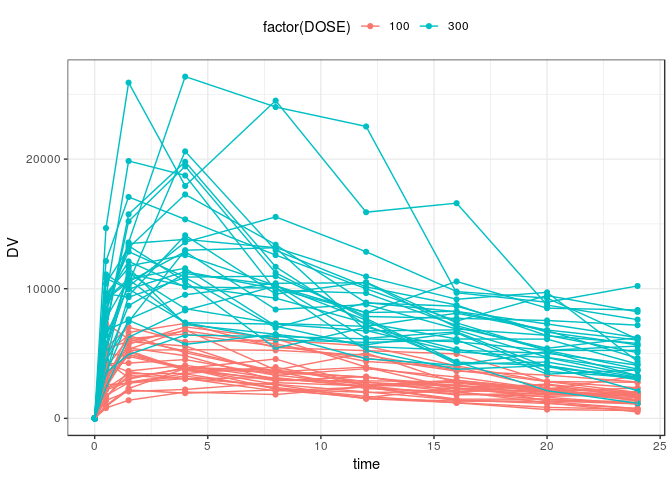
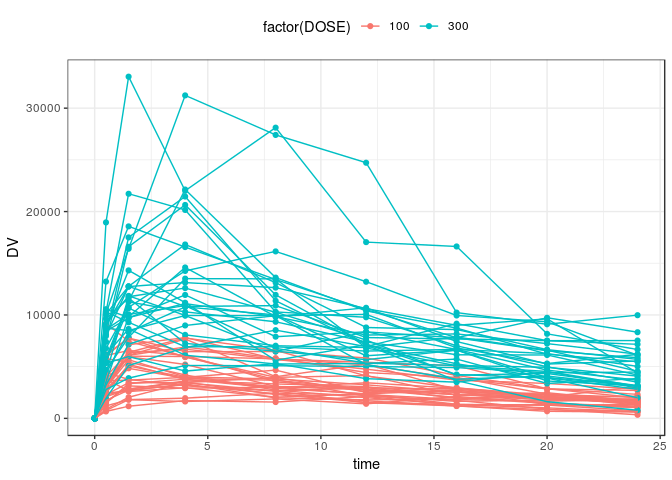
rebuild

diff --git a/nmtest5.md b/nmtest5.md
@@ -108,7 +108,7 @@ $THETA
 
 $OMEGA
 0.09 
-0.1 
+0.2 
 0.5
 
 $SIGMA 
@@ -157,10 +157,10 @@ head(out)
     .   <dbl> <dbl> <dbl> <dbl> <dbl> <dbl> <dbl> <dbl>
     . 1     1   0       0     0     0  82.3   100    0 
     . 2     1   0       1   100     1  82.3   100    0 
-    . 3     1   0.5     0     0     0  82.3   100 7356.
-    . 4     1   1.5     0     0     0  82.3   100 6101.
-    . 5     1   4       0     0     0  82.3   100 5203.
-    . 6     1   8       0     0     0  82.3   100 3616.
+    . 3     1   0.5     0     0     0  82.3   100 9190.
+    . 4     1   1.5     0     0     0  82.3   100 7446.
+    . 5     1   4       0     0     0  82.3   100 5956.
+    . 6     1   8       0     0     0  82.3   100 3734.
 
 ``` r
 ggplot(out, aes(time,DV,col = factor(DOSE),group = ID)) + 
@@ -225,10 +225,10 @@ head(out)
     .   <dbl> <dbl> <dbl> <dbl> <dbl> <int> <dbl>
     . 1     1   0     100    0     0      1   0  
     . 2     1   0     100    0     0      1   0  
-    . 3     1   0.5   100 1867. 1867.     1   0.5
-    . 4     1   1.5   100 3141. 3141.     1   1.5
-    . 5     1   4     100 2807. 2807.     1   4  
-    . 6     1   8     100 1779. 1779.     1   8
+    . 3     1   0.5   100  805.  805.     1   0.5
+    . 4     1   1.5   100 1306. 1306.     1   1.5
+    . 5     1   4     100 1484. 1484.     1   4  
+    . 6     1   8     100 1446. 1446.     1   8
 
 Summarize
 =========
@@ -356,7 +356,7 @@ cat(mod@code, sep = "\n")
     . 
     . $OMEGA
     . 0.09 
-    . 0.1 
+    . 0.2 
     . 0.5
     . 
     . $SIGMA 
